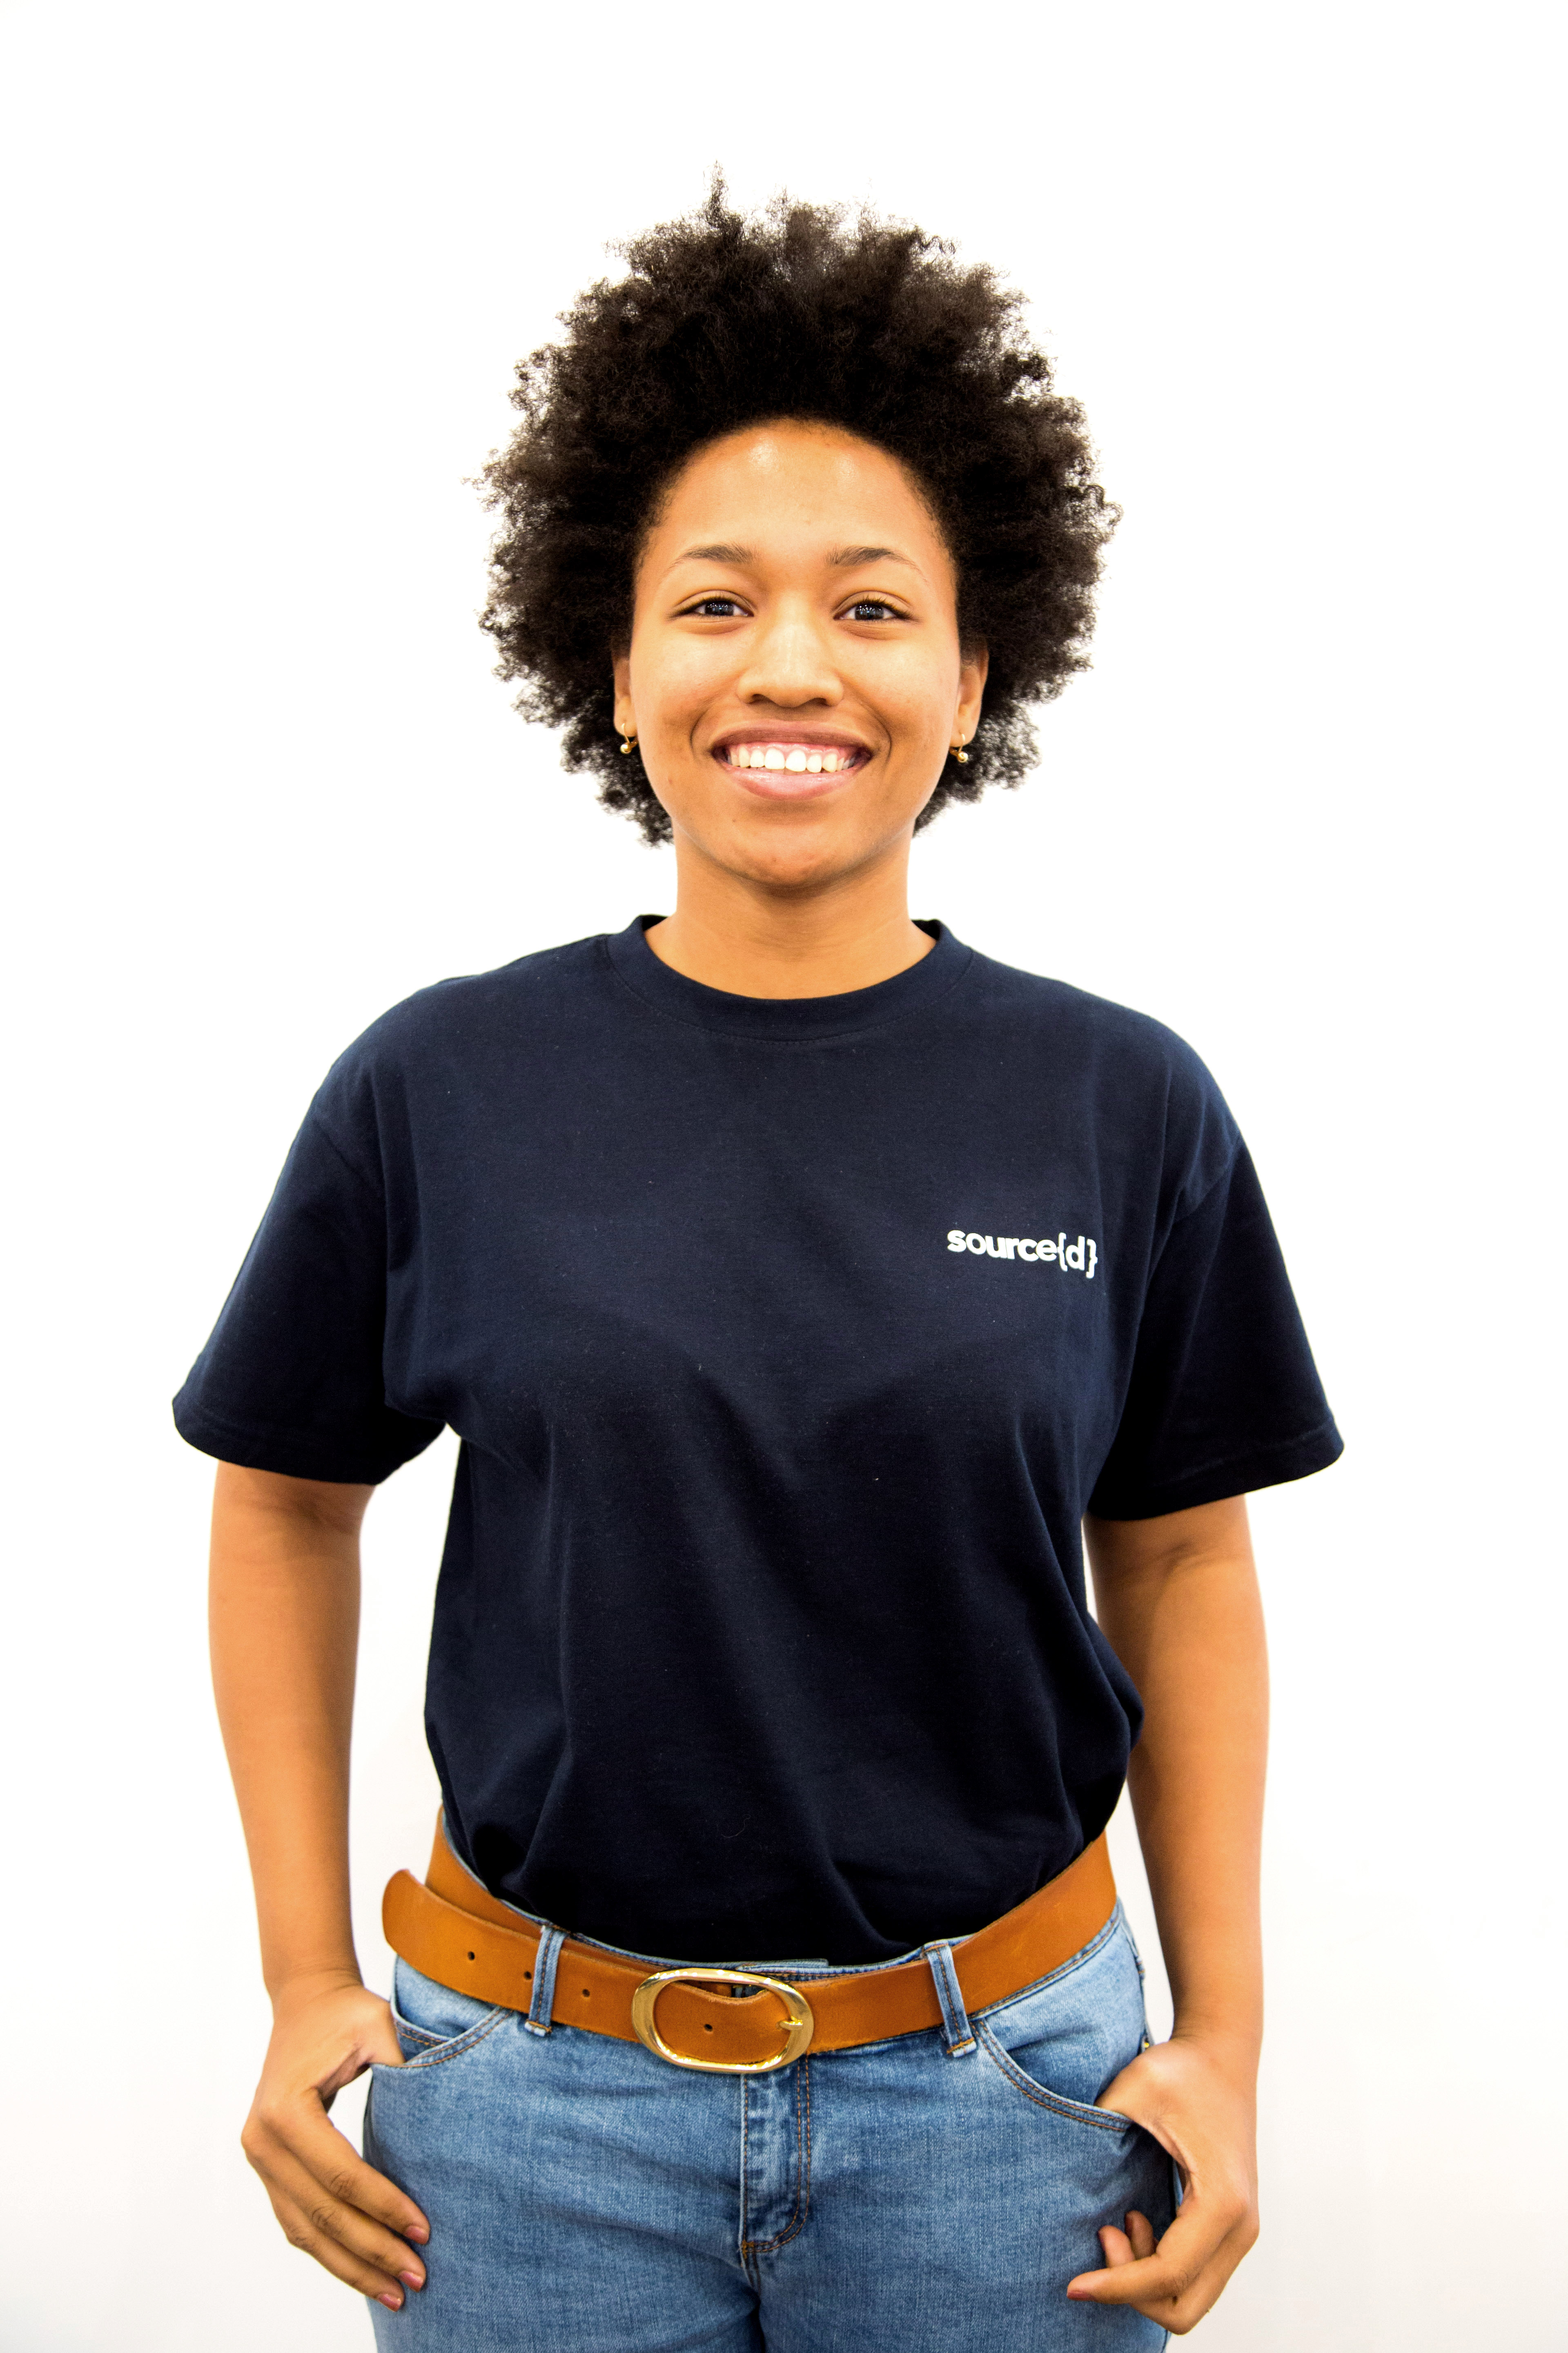
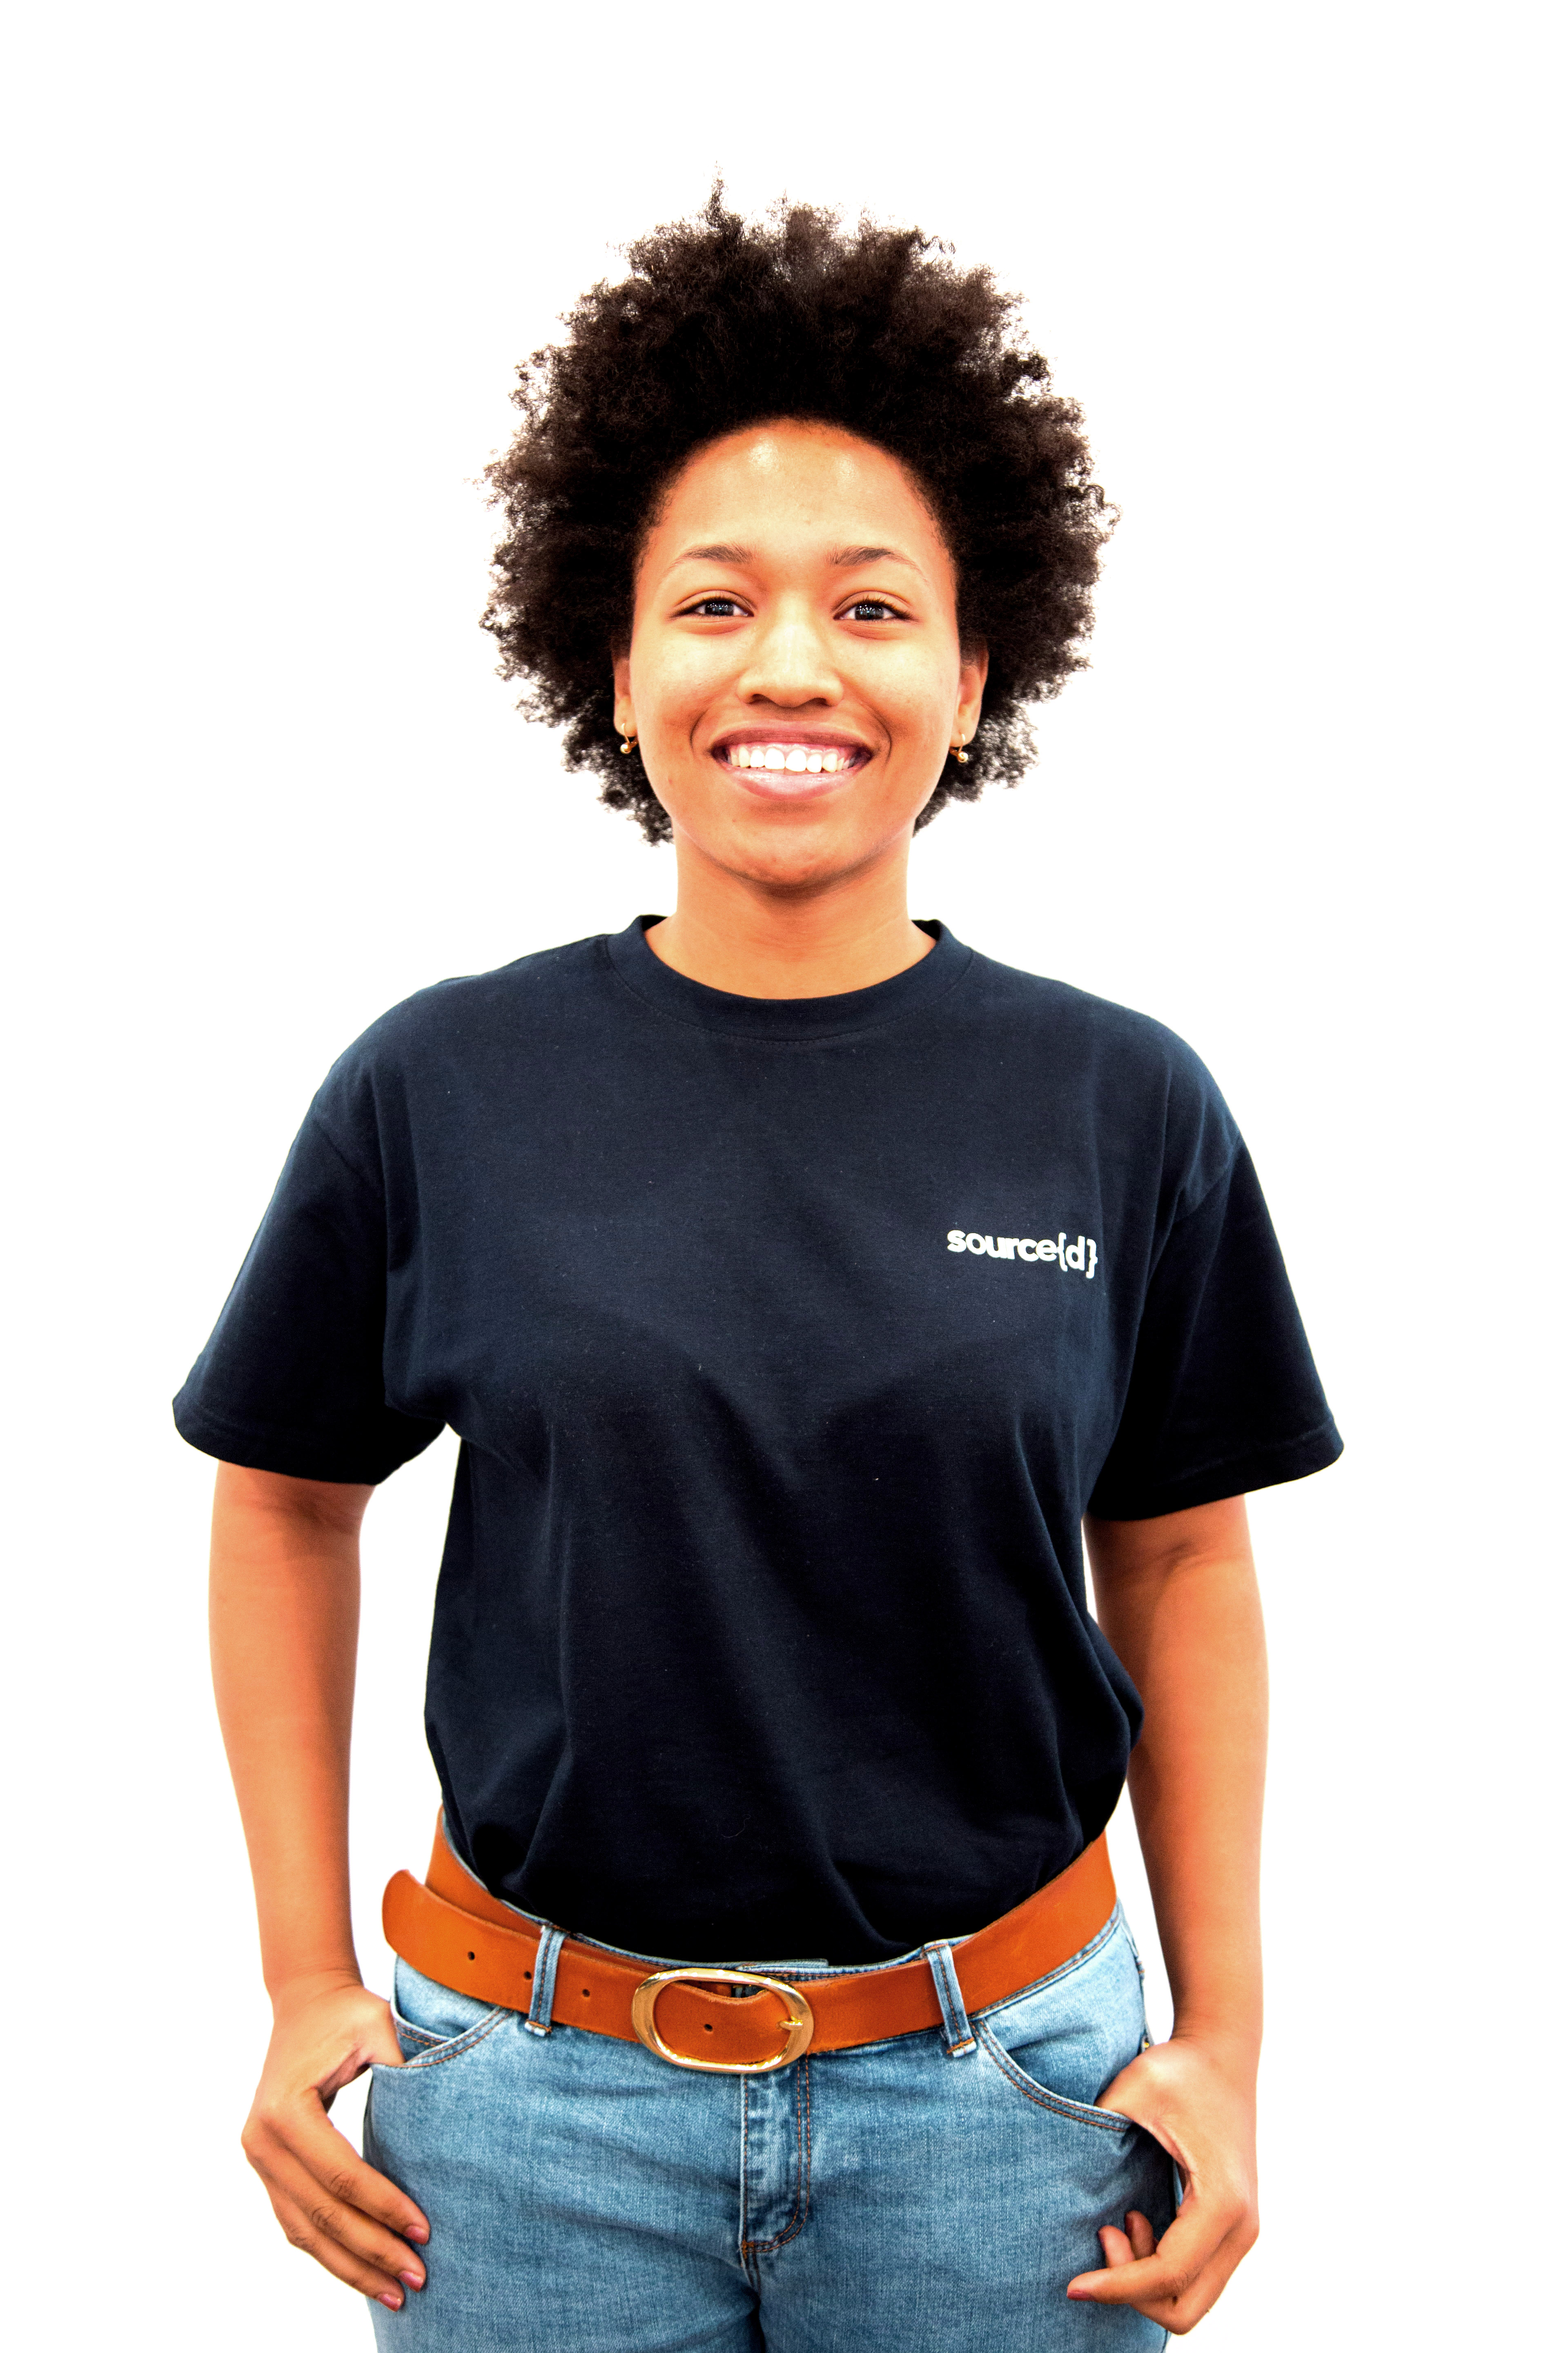
Add new guys (#80)

diff --git a/layouts/about/single.html b/layouts/about/single.html
@@ -150,10 +150,7 @@
                 <div class="team-item-github"><a href="https://linkedin.com/in/gonvicente" target="_blank">LinkedIn Profile</a></div>
             </div>
             <div class="team-item">
-                <!--
-                    <div class="team-item-photo"><img src="/image/sourced/joy-cierrea.jpg" alt="Joy Cierrea Archer" title="Joy Cierrea Archer"></div>
-                //-->
-                <div class="team-item-photo"><img src="/image/sourced/new-woman.png" alt="Joy Cierrea Archer" title="Joy Cierrea Archer"></div>
+                <div class="team-item-photo"><img src="/image/sourced/joy-cierrea.jpg" alt="Joy Cierrea Archer" title="Joy Cierrea Archer"></div>
                 <div class="team-item-name1">Joy</div>
                 <div class="team-item-name2">Cierrea Archer</div>
                 <div class="team-item-position">Developer Relations Intern</div>
@@ -165,10 +162,7 @@
         <div class="our-team">Engineering</div>
         <div class="team">
             <div class="team-item">
-                <!--
-                    <div class="team-item-photo"><img src="/image/sourced/vadim-markovtsev.jpg" alt="Vadim Markovtsev" title="Vadim Markovtsev"></div>
-                //-->
-                <div class="team-item-photo"><img src="/image/sourced/new-man.png" alt="Vadim Markovtsev" title="Vadim Markovtsev"></div>
+                <div class="team-item-photo"><img src="/image/sourced/vadim-markovtsev.jpg" alt="Vadim Markovtsev" title="Vadim Markovtsev"></div>
                 <div class="team-item-name1">Vadim</div>
                 <div class="team-item-name2">Markovtsev</div>
                 <div class="team-item-position">Lead<br />Machine Learning Team</div>
@@ -229,10 +223,7 @@
             <div class="cell">
                 <div class="our-team">Operations</div>
                 <div class="team-item">
-                    <!--
-                        <div class="team-item-photo"><img src="/image/sourced/ester-garcia.jpg" alt="Esther García" title="Esther García"></div>
-                    //-->
-                    <div class="team-item-photo"><img src="/image/sourced/new-woman.png" alt="Esther García" title="Esther García"></div>
+                    <div class="team-item-photo"><img src="/image/sourced/ester-garcia.jpg" alt="Esther García" title="Esther García"></div>
                     <div class="team-item-name1">Esther</div>
                     <div class="team-item-name2">García</div>
                     <div class="team-item-position">Office Manager</div>
